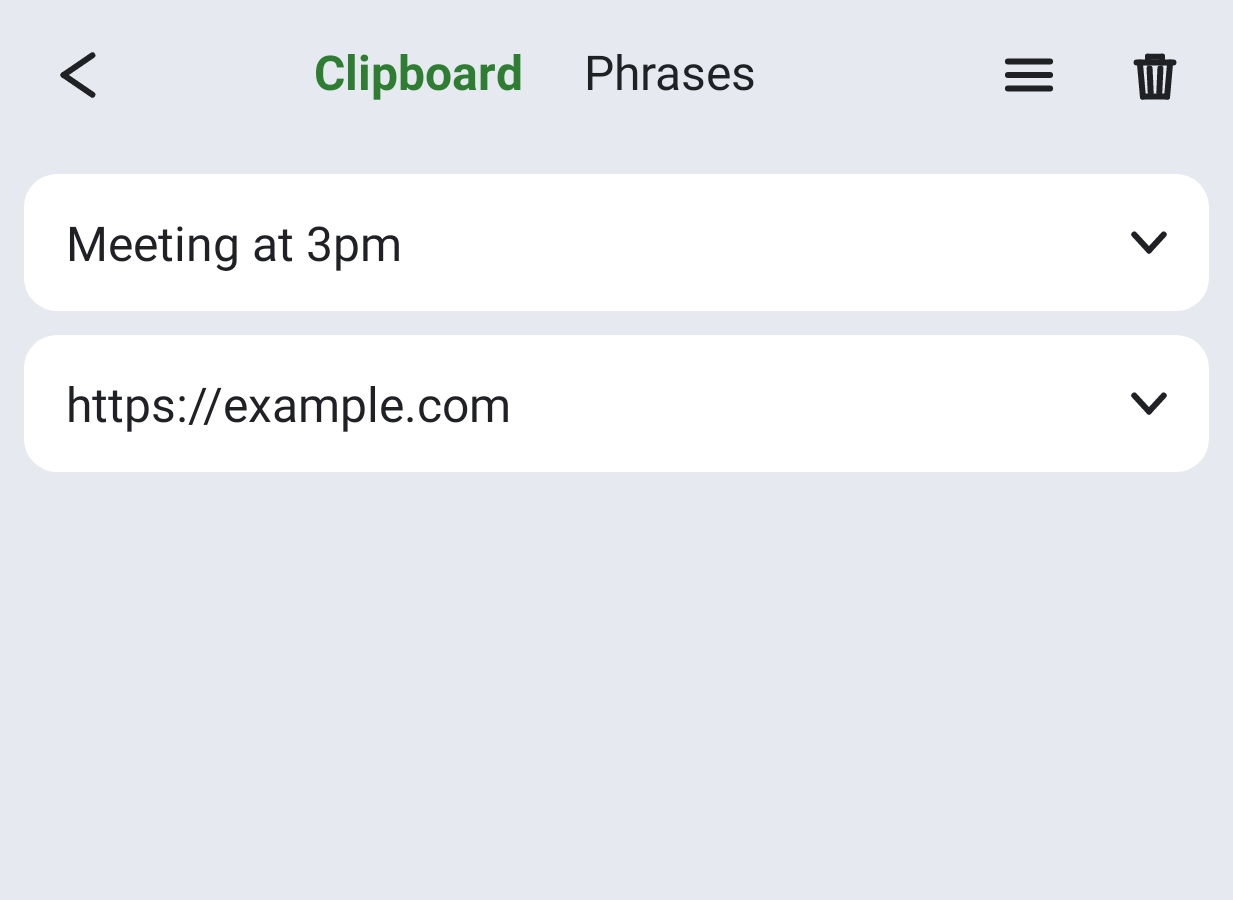
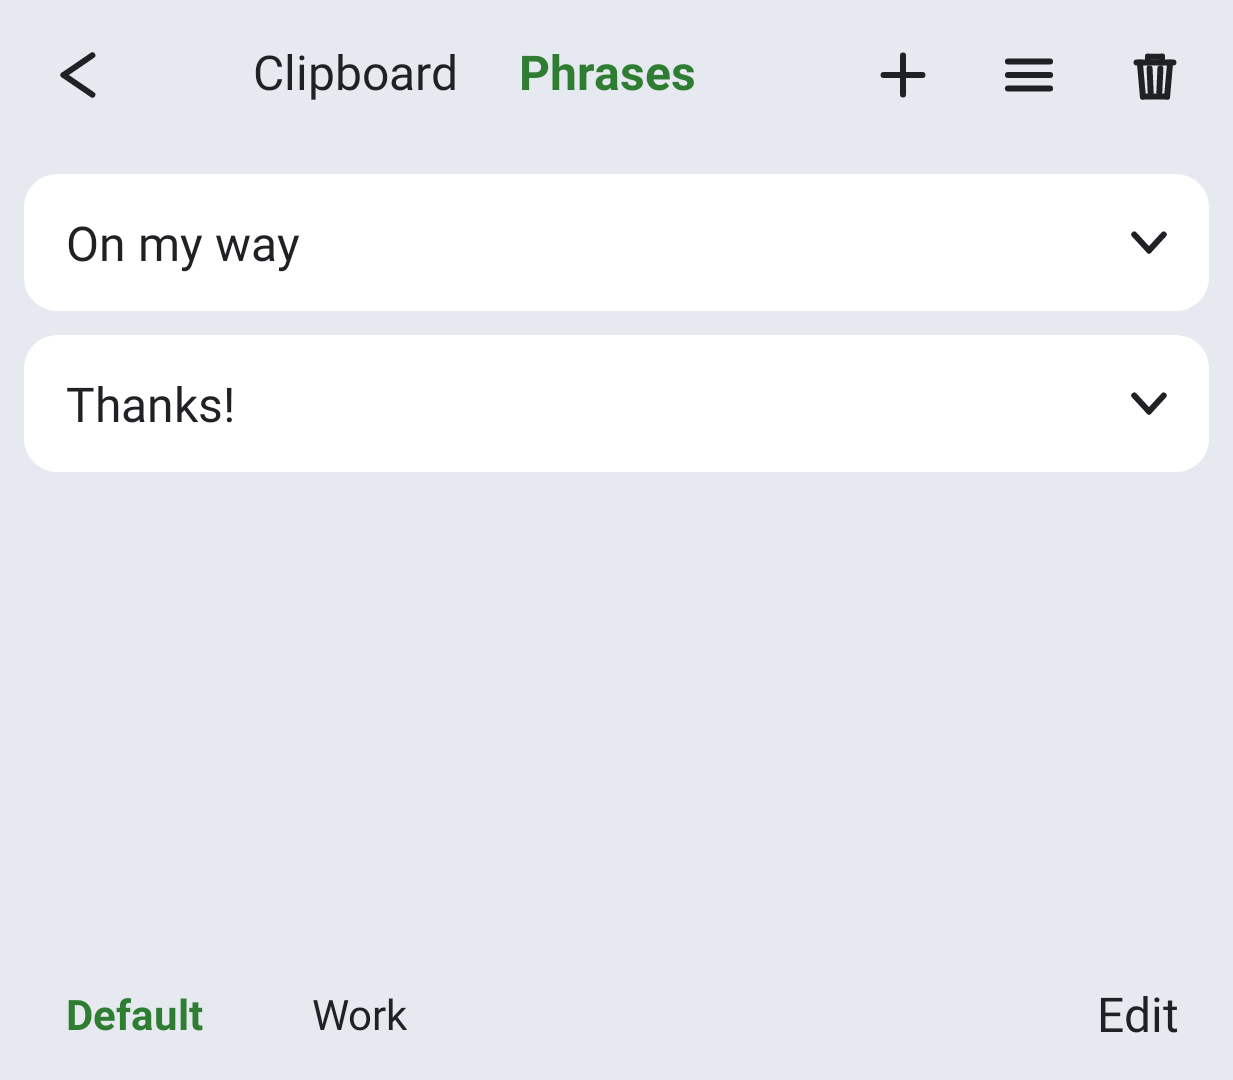
Localize the default clipboard phrase category
ClipboardStore.DEFAULT_CATEGORY was hardcoded Chinese and rendered as
the default Phrases-tab category chip: an English-locale device
showed a Chinese default category.

- Give the default category a stable ASCII id ("default") for
  persistence and lookup; create/backfill/store all use the id, never
  a localized name.
- Migrate a legacy Chinese-named default (from a pre-i18n phrases
  file) to the id on load; an existing default and its phrases carry
  over untouched.
- ClipboardView.displayCat() resolves the id to a localized name
  (values/values-zh) at every category-name display site (chip,
  category-row label, rename/delete/clear/move/choose-category
  dialogs); user-created categories keep their own names. Callbacks
  to the store keep the raw id. Same id-to-string pattern as the
  symbol/emoji categories.
- Re-render the clipboard screenshots on the Phrases tab (en
  "Default" / zh "默认").

diff --git a/app/src/main/java/com/aegis/ime/ime/ClipboardView.kt b/app/src/main/java/com/aegis/ime/ime/ClipboardView.kt
@@ -881,7 +881,7 @@ class ClipboardView(context: Context) : FrameLayout(context), ResettablePanel {
     private fun catSortRowFor(name: String, index: Int): View {
         val h = if (index < catSortRowPool.size) catSortRowPool[index] else buildTextRow(catSortRowPool, maxLines = 1)
         Motion.reset(h.row)
-        h.label.text = name
+        h.label.text = displayCat(name)
         h.label.setTypeface(null, if (name == currentCategory()) android.graphics.Typeface.BOLD else android.graphics.Typeface.NORMAL)
         attachCategorySortDrag(h.handle, h.row, index)
         return h.row
@@ -949,7 +949,7 @@ class ClipboardView(context: Context) : FrameLayout(context), ResettablePanel {
         val cat = currentCategory()
         if (cat.isEmpty()) return
         val card = menuCard()
-        card.addView(menuTitle(context.getString(R.string.clip_clear_category_confirm, cat), color = TEXT_DARK))
+        card.addView(menuTitle(context.getString(R.string.clip_clear_category_confirm, displayCat(cat)), color = TEXT_DARK))
         card.addView(menuDivider())
         card.addView(menuItem(context.getString(R.string.clip_clear)) { hideOverlay(); onClearCategory(cat); refresh() })
         card.addView(menuDivider())
@@ -967,8 +967,11 @@ class ClipboardView(context: Context) : FrameLayout(context), ResettablePanel {
         showOverlay(card)
     }
 
+    private fun displayCat(name: String): String =
+        if (name == com.aegis.ime.user.ClipboardStore.DEFAULT_CATEGORY_ID) context.getString(R.string.clip_default_category) else name
+
     private fun catChip(name: String, on: Boolean): View = TextView(context).apply {
-        text = name
+        text = displayCat(name)
         gravity = Gravity.CENTER
         setTextSize(TypedValue.COMPLEX_UNIT_SP, ImeType.label)
         setPadding(dp(14), dp(6), dp(14), dp(6))
@@ -983,9 +986,9 @@ class ClipboardView(context: Context) : FrameLayout(context), ResettablePanel {
 
     private fun showCategoryMenu(name: String) {
         val card = menuCard()
-        card.addView(menuItem(context.getString(R.string.clip_rename_named, name)) { hideOverlay(); onRenameCategory(name) })
+        card.addView(menuItem(context.getString(R.string.clip_rename_named, displayCat(name))) { hideOverlay(); onRenameCategory(name) })
         card.addView(menuDivider())
-        card.addView(menuItem(context.getString(R.string.clip_delete_named, name)) { hideOverlay(); onDeleteCategory(name); if (phraseCat == name) phraseCat = ""; swipeRevealed = null; refresh() })
+        card.addView(menuItem(context.getString(R.string.clip_delete_named, displayCat(name))) { hideOverlay(); onDeleteCategory(name); if (phraseCat == name) phraseCat = ""; swipeRevealed = null; refresh() })
         showOverlay(card)
     }
 
@@ -1120,7 +1123,7 @@ class ClipboardView(context: Context) : FrameLayout(context), ResettablePanel {
         LinearLayout(context).apply {
             orientation = LinearLayout.HORIZONTAL
             gravity = Gravity.CENTER_VERTICAL
-            addView(menuItem(name) { hideOverlay(); action(name) }, ll(0, WC, 1f))
+            addView(menuItem(displayCat(name)) { hideOverlay(); action(name) }, ll(0, WC, 1f))
             addView(
                 glyphView(RED, 9) { c, p, x, y, s -> Glyphs.drawTrash(c, p, x, y, s) }.apply {
                     contentDescription = context.getString(R.string.clip_delete_category)
@@ -1157,7 +1160,7 @@ class ClipboardView(context: Context) : FrameLayout(context), ResettablePanel {
         if (cats.isEmpty()) { after(); onAddCategoryThenAdd(pending); return }
         val card = menuCard()
         card.addView(menuTitle(context.getString(R.string.clip_choose_category)))
-        for (c in cats) { card.addView(menuDivider()); card.addView(menuItem(c) { hideOverlay(); onSaveAsPhrasesTo(c, pending); after(); refresh() }) }
+        for (c in cats) { card.addView(menuDivider()); card.addView(menuItem(displayCat(c)) { hideOverlay(); onSaveAsPhrasesTo(c, pending); after(); refresh() }) }
         card.addView(menuDivider())
         card.addView(menuItem(context.getString(R.string.clip_new_category)) { hideOverlay(); after(); onAddCategoryThenAdd(pending) })
         showOverlay(card)

diff --git a/app/src/test/java/com/aegis/ime/user/ClipboardStoreTest.kt b/app/src/test/java/com/aegis/ime/user/ClipboardStoreTest.kt
@@ -158,9 +158,9 @@ class ClipboardStoreTest {
     }
 
     @Test fun added_phrases_land_at_front_preserving_batch_order() {
-        val s = ClipboardStore(newDir()).apply { load(); addPhrasesTo("默认", listOf("old")) }
-        assertEquals(2, s.addPhrasesTo("默认", listOf("new1", "new2", "old")))
-        assertEquals(listOf("new1", "new2", "old"), s.phrasesIn("默认"))
+        val s = ClipboardStore(newDir()).apply { load(); addPhrasesTo(ClipboardStore.DEFAULT_CATEGORY_ID, listOf("old")) }
+        assertEquals(2, s.addPhrasesTo(ClipboardStore.DEFAULT_CATEGORY_ID, listOf("new1", "new2", "old")))
+        assertEquals(listOf("new1", "new2", "old"), s.phrasesIn(ClipboardStore.DEFAULT_CATEGORY_ID))
     }
 
     @Test fun phrase_dedup_is_scoped_to_the_target_category() {
@@ -174,8 +174,8 @@ class ClipboardStoreTest {
 
     @Test fun first_run_has_an_empty_default_category() {
         val s = ClipboardStore(newDir()).apply { load() }
-        assertEquals(listOf("默认"), s.categories())
-        assertTrue("no default phrases are seeded", s.phrasesIn("默认").isEmpty())
+        assertEquals(listOf(ClipboardStore.DEFAULT_CATEGORY_ID), s.categories())
+        assertTrue("no default phrases are seeded", s.phrasesIn(ClipboardStore.DEFAULT_CATEGORY_ID).isEmpty())
         assertTrue("no phrases at all on first run", s.phrases().isEmpty())
     }
 
@@ -215,8 +215,17 @@ class ClipboardStoreTest {
         val dir = newDir()
         File(dir, "phrases.txt").writeText("你好\n谢谢\n多行\\n短语")
         val s = ClipboardStore(dir).apply { load() }
-        assertEquals(listOf("默认"), s.categories())
-        assertEquals(listOf("你好", "谢谢", "多行\n短语"), s.phrasesIn("默认"))
+        assertEquals(listOf(ClipboardStore.DEFAULT_CATEGORY_ID), s.categories())
+        assertEquals(listOf("你好", "谢谢", "多行\n短语"), s.phrasesIn(ClipboardStore.DEFAULT_CATEGORY_ID))
+    }
+
+    @Test fun legacy_default_category_name_migrates_to_the_stable_id() {
+        val dir = newDir()
+        File(dir, "phrases.txt").writeText("C\t默认\nP\t你好\nC\t工作\nP\t已收到")
+        val s = ClipboardStore(dir).apply { load() }
+        assertEquals(listOf(ClipboardStore.DEFAULT_CATEGORY_ID, "工作"), s.categories())
+        assertEquals(listOf("你好"), s.phrasesIn(ClipboardStore.DEFAULT_CATEGORY_ID))
+        assertEquals(listOf("已收到"), s.phrasesIn("工作"))
     }
 
 
@@ -360,10 +369,10 @@ class ClipboardStoreTest {
         val dir = newDir()
         val s = ClipboardStore(dir).apply { load(); addCategory("甲"); addCategory("乙"); addCategory("丙") }
         assertTrue(s.reorderCategory(3, 1))
-        assertEquals(listOf("默认", "丙", "甲", "乙"), s.categories())
+        assertEquals(listOf(ClipboardStore.DEFAULT_CATEGORY_ID, "丙", "甲", "乙"), s.categories())
         assertTrue(s.reorderCategory(0, 3))
-        assertEquals(listOf("丙", "甲", "乙", "默认"), s.categories())
-        assertEquals(listOf("丙", "甲", "乙", "默认"), ClipboardStore(dir).apply { load() }.categories())
+        assertEquals(listOf("丙", "甲", "乙", ClipboardStore.DEFAULT_CATEGORY_ID), s.categories())
+        assertEquals(listOf("丙", "甲", "乙", ClipboardStore.DEFAULT_CATEGORY_ID), ClipboardStore(dir).apply { load() }.categories())
     }
 
     @Test fun reorder_category_rejects_bad_indices_and_noops() {
@@ -371,7 +380,7 @@ class ClipboardStoreTest {
         assertFalse(s.reorderCategory(0, 0))
         assertFalse(s.reorderCategory(-1, 1))
         assertFalse(s.reorderCategory(0, 3))
-        assertEquals(listOf("默认", "甲", "乙"), s.categories())
+        assertEquals(listOf(ClipboardStore.DEFAULT_CATEGORY_ID, "甲", "乙"), s.categories())
     }
 
 

diff --git a/app/src/main/java/com/aegis/ime/user/ClipboardStore.kt b/app/src/main/java/com/aegis/ime/user/ClipboardStore.kt
@@ -59,17 +59,18 @@ class ClipboardStore(private val dir: File) {
     private fun loadPhrases() {
         phraseCats.clear()
         if (!phraseFile.exists()) {
-            phraseCats.add(Category(DEFAULT_CATEGORY, ArrayList(DEFAULT_PHRASES.map { Phrase(it) })))
+            phraseCats.add(Category(DEFAULT_CATEGORY_ID, ArrayList(DEFAULT_PHRASES.map { Phrase(it) })))
             return
         }
         val lines = runCatching { phraseFile.readLines() }.getOrDefault(emptyList())
         if (lines.none { it.startsWith("C\t") }) {
-            val c = Category(DEFAULT_CATEGORY)
+            val c = Category(DEFAULT_CATEGORY_ID)
             lines.forEach { decode(it)?.let { p -> if (p.isNotBlank()) c.phrases.add(Phrase(p)) } }
             phraseCats.add(c)
             return
         }
         phraseCats.addAll(parseCategories(lines))
+        migrateLegacyDefault()
     }
 
     private fun parseCategories(lines: List<String>): List<Category> {
@@ -82,6 +83,12 @@ class ClipboardStore(private val dir: File) {
             line.startsWith("N\t") -> decode(line.substring(2))?.let { n -> last?.note = n }
         }
         return out
+    }
+
+    private fun migrateLegacyDefault() {
+        if (phraseCats.none { it.name == DEFAULT_CATEGORY_ID }) {
+            phraseCats.firstOrNull { it.name == LEGACY_DEFAULT_NAME }?.let { it.name = DEFAULT_CATEGORY_ID }
+        }
     }
 
     fun record(text: String?) {
@@ -150,7 +157,7 @@ class ClipboardStore(private val dir: File) {
     }
 
     fun addPhrases(texts: Collection<String>): Int =
-        addPhrasesTo(phraseCats.firstOrNull()?.name ?: DEFAULT_CATEGORY, texts)
+        addPhrasesTo(phraseCats.firstOrNull()?.name ?: DEFAULT_CATEGORY_ID, texts)
 
     fun deletePhraseFrom(category: String, text: String) {
         find(category)?.let { c -> if (c.phrases.removeAll { it.text == text }) savePhrases() }
@@ -304,7 +311,7 @@ class ClipboardStore(private val dir: File) {
         } else {
             phraseCats.clear()
             phraseCats.addAll(parsed)
-            if (phraseCats.none { it.name == DEFAULT_CATEGORY }) phraseCats.add(0, Category(DEFAULT_CATEGORY))
+            if (phraseCats.none { it.name == DEFAULT_CATEGORY_ID }) phraseCats.add(0, Category(DEFAULT_CATEGORY_ID))
         }
         savePhrases()
         return true
@@ -339,7 +346,8 @@ class ClipboardStore(private val dir: File) {
         const val BIG_THRESHOLD = 64 * 1024
 
         private const val MAX_HISTORY = 100000
-        private const val DEFAULT_CATEGORY = "默认"
+        const val DEFAULT_CATEGORY_ID = "default"
+        private const val LEGACY_DEFAULT_NAME = "默认"
         private val DEFAULT_PHRASES = emptyList<String>()
     }
 }

diff --git a/app/src/test/java/com/aegis/ime/ime/BilingualScreenshotTest.kt b/app/src/test/java/com/aegis/ime/ime/BilingualScreenshotTest.kt
@@ -169,9 +169,10 @@ class BilingualScreenshotTest {
                 categoriesProvider = { phraseCats }
                 phrasesInProvider = { c -> phrasesOf(c) }
                 applyPalette(pal)
+                forcePhrasesStateForTest(com.aegis.ime.user.ClipboardStore.DEFAULT_CATEGORY_ID)
                 refresh()
             },
-            (300 * density).toInt(), dir, "clipboard.png",
+            (360 * density).toInt(), dir, "clipboard.png",
         )
 
         snap(
@@ -192,7 +193,7 @@ class BilingualScreenshotTest {
             lang = Lang.EN,
             dir = File(baseDir, "en"),
             history = listOf("Meeting at 3pm", "https://example.com"),
-            phraseCats = listOf("Default", "Work"),
+            phraseCats = listOf(com.aegis.ime.user.ClipboardStore.DEFAULT_CATEGORY_ID, "Work"),
             phrasesOf = { c -> if (c == "Work") listOf("On my way", "Thanks!") else listOf("On my way", "Thanks!") },
             symbols = listOf(",", ".", "?"),
         )
@@ -209,7 +210,7 @@ class BilingualScreenshotTest {
             lang = Lang.CN,
             dir = File(baseDir, "zh"),
             history = listOf("第一条复制内容", "第二条内容"),
-            phraseCats = listOf("默认", "工作"),
+            phraseCats = listOf(com.aegis.ime.user.ClipboardStore.DEFAULT_CATEGORY_ID, "工作"),
             phrasesOf = { _ -> listOf("你好", "在吗") },
             symbols = listOf("，", "。", "？"),
         )
